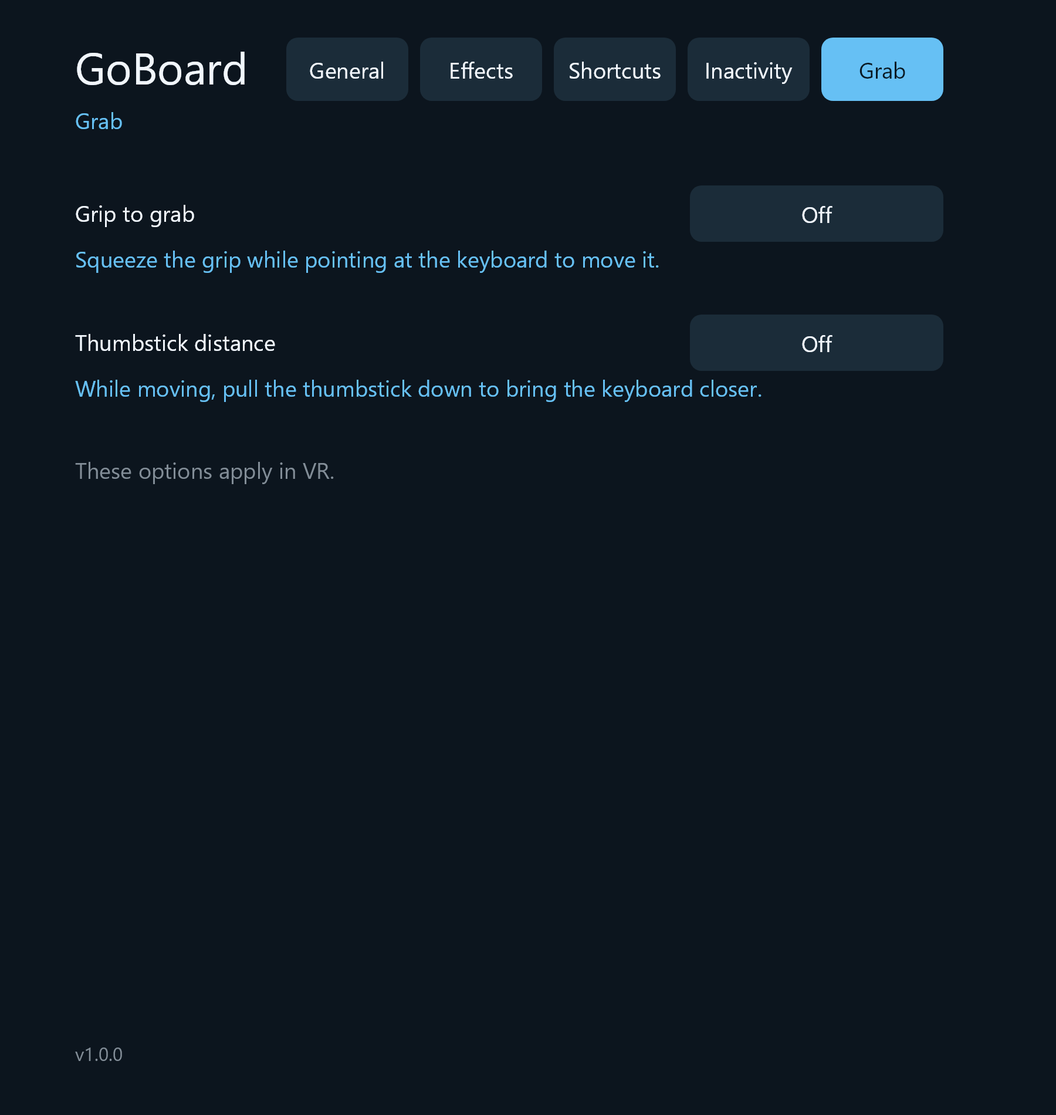
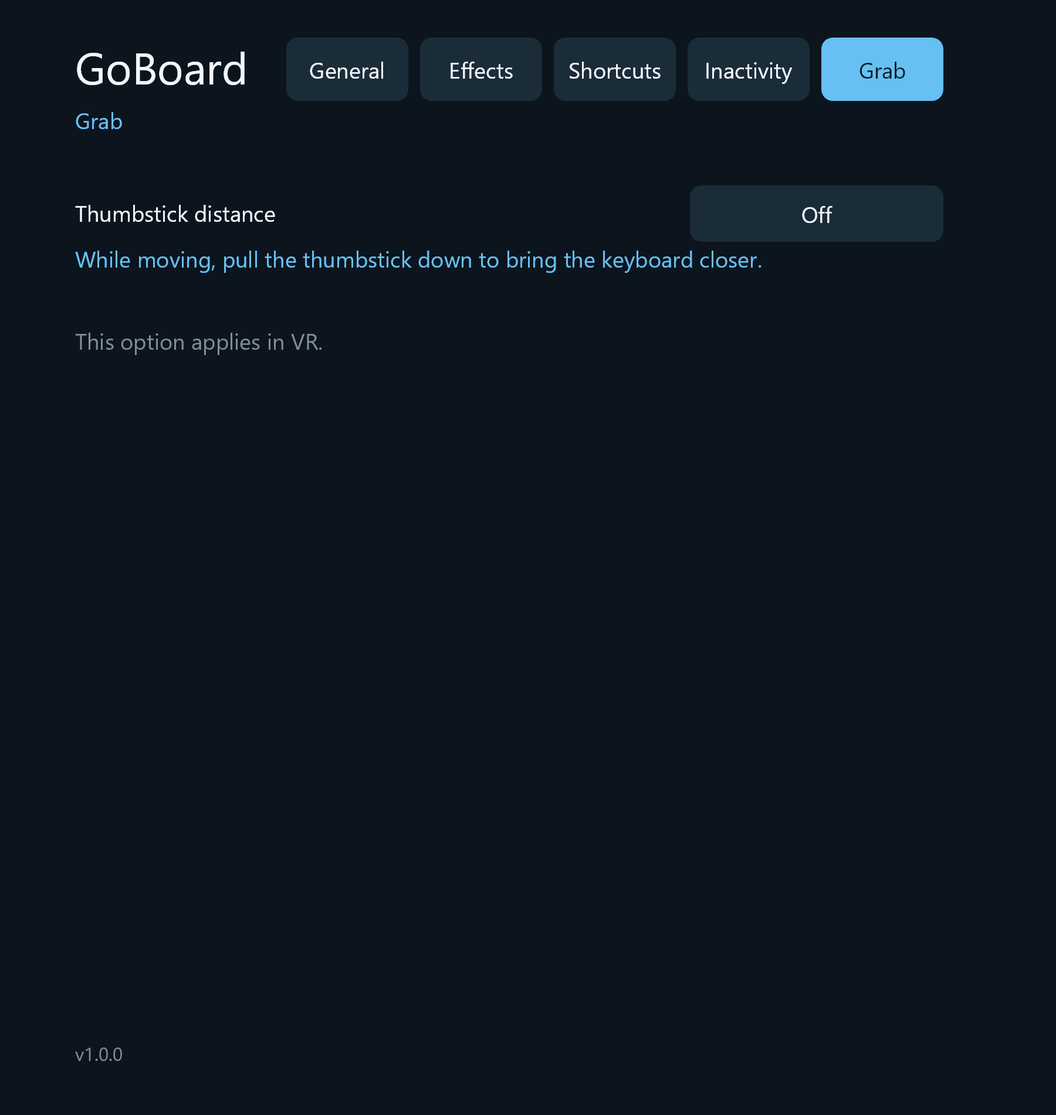
Read grab distance from scroll events and drop grip grabbing
While the dashboard is open, SteamVR withholds grip and joystick state
from both legacy controller state and IVRInput. The joystick still
reaches the pointed-at overlay as smooth scroll events, so the held
handle reads them. No grip event reaches an overlay, so grip grabbing
is removed.

diff --git a/src/GoBoard.OpenVR/GrabHandle.cs b/src/GoBoard.OpenVR/GrabHandle.cs
@@ -20,9 +20,8 @@ internal sealed class GrabHandle(CVRSystem system, CVROverlay overlay, ulong han
     private readonly ulong rightPath = InputPath("/user/hand/right");
     private GrabPose grab;
     private uint owner;
-    private bool watchTrigger, gripping, gripGrab, stickDistance;
-    private readonly GripPresses grips = new();
-    private int stickAxis = -1;
+    private bool watchTrigger, stickDistance;
+    private readonly ScrollStick stick = new();
     private double lastUpdate = double.NaN;
     private int drawnState = -1;
     private readonly Dictionary<(uint Slot, uint Device), double> lastMotionLog = new();
@@ -36,13 +35,13 @@ internal sealed class GrabHandle(CVRSystem system, CVROverlay overlay, ulong han
     public uint Controller => owner;
     public bool Hovered => input.HasFocus;
     private bool drawnDormant;
-    // Controllers pointing at the grabbed surface (besides this handle) can start a grip grab.
-    public Func<IEnumerable<uint>> GripTargets { get; set; }
 
     public void ApplySettings(BoardSettings settings)
     {
-        gripGrab = settings.GripGrabEnabled;
+        if (stickDistance == settings.StickDistanceEnabled) return;
         stickDistance = settings.StickDistanceEnabled;
+        stick.Reset();
+        Check(overlay.SetOverlayFlag(handle, VROverlayFlags.SendVRSmoothScrollEvents, stickDistance), "Grab thumbstick events");
     }
 
     public Matrix4x4? Update(bool visible, Matrix4x4 panel, bool interactive = true, bool dormant = false)
@@ -67,6 +66,13 @@ internal sealed class GrabHandle(CVRSystem system, CVROverlay overlay, ulong han
             var type = (EVREventType)e.eventType;
             if (type == EVREventType.VREvent_ImageFailed) throw new InvalidOperationException("SteamVR failed to load the grab handle.");
             if (!interactive) continue;
+            if (type == EVREventType.VREvent_ScrollSmooth)
+            {
+                // The held handle stays under the owner's pointer, so its stick arrives here.
+                if (grab != null && e.trackedDeviceIndex == owner)
+                    stick.Observe(e.data.scroll.ydelta, Stopwatch.GetTimestamp() / (double)Stopwatch.Frequency - e.eventAgeSeconds);
+                continue;
+            }
             if (type is not (EVREventType.VREvent_FocusEnter or EVREventType.VREvent_FocusLeave or
                 EVREventType.VREvent_MouseMove or EVREventType.VREvent_MouseButtonDown or EVREventType.VREvent_MouseButtonUp)) continue;
             var now = Stopwatch.GetTimestamp() / (double)Stopwatch.Frequency;
@@ -115,17 +121,11 @@ internal sealed class GrabHandle(CVRSystem system, CVROverlay overlay, ulong han
         }
 
         input.RemoveUntracked(device => TryPose(device, out _), Stopwatch.GetTimestamp() / (double)Stopwatch.Frequency);
-        // Poll every frame so a grip already held when pointing begins is not a press.
-        var gripPress = grips.Update(Grips(), interactive && gripGrab
-            ? input.FocusedDevices.Concat(GripTargets?.Invoke() ?? []).ToHashSet() : []);
-        if (gripping && !gripGrab) End("grip grab disabled");
         // Controller-specific enter/motion/leave/up events own focus. The
         // overlay-wide hover query can change when the OTHER hand types and
         // must not clear this hand's focus or cancel its captured grab.
         // Drain the whole queue first so a queued owner leave/release wins.
-        // A grip grab ignores handle trigger presses until the grip is released.
-        if (gripping) input.Cancel();
-        else if (input.Active == null) End("pointer released or focus lost");
+        if (input.Active == null) End("pointer released or focus lost");
         else if (committedPress != input.Active)
         {
             var press = input.Active;
@@ -137,27 +137,13 @@ internal sealed class GrabHandle(CVRSystem system, CVROverlay overlay, ulong han
                 committedPress = press;
                 grab = new GrabPose(result ?? displayedPanel ?? panel, hand);
                 watchTrigger = Trigger(owner, out held) && held;
-                stickAxis = JoystickAxis(owner);
                 Console.WriteLine($"Grab started: controller {owner}, cursor {press.Cursor}, verified handle focus, trigger polling {watchTrigger}.");
             }
-        }
-        if (grab == null && gripPress is { } gripOwner && TryPose(gripOwner, out var gripHand))
-        {
-            owner = gripOwner;
-            gripping = true;
-            grab = new GrabPose(result ?? displayedPanel ?? panel, gripHand);
-            stickAxis = JoystickAxis(owner);
-            Console.WriteLine($"Grab started: controller {owner}, grip pressed while pointing at the keyboard.");
         }
 
         if (grab != null)
         {
             if (!TryPose(owner, out var hand)) End("controller tracking lost");
-            else if (gripping)
-            {
-                if (!Pressed(owner, EVRButtonId.k_EButton_Grip, out var held) || !held) End("grip released or unavailable");
-                else Hold(hand);
-            }
             else
             {
                 var valid = Trigger(owner, out var held);
@@ -165,7 +151,8 @@ internal sealed class GrabHandle(CVRSystem system, CVROverlay overlay, ulong han
                 else
                 {
                     watchTrigger |= valid && held;
-                    Hold(hand);
+                    if (stickDistance) grab = grab.WithStick(stick.Read(clock), (float)elapsed);
+                    result = grab.Update(hand);
                 }
             }
         }
@@ -179,39 +166,7 @@ internal sealed class GrabHandle(CVRSystem system, CVROverlay overlay, ulong han
         }
         if (visible) displayedPanel = result ?? panel;
         return result;
-
-        void Hold(Matrix4x4 hand)
-        {
-            if (stickDistance && stickAxis >= 0 && ReadState(owner, out var state))
-                grab = grab.WithStick(AxisY(state, stickAxis), (float)elapsed);
-            result = grab.Update(hand);
-        }
     }
-
-    private IEnumerable<(uint, bool)> Grips()
-    {
-        foreach (var role in new[] { ETrackedControllerRole.LeftHand, ETrackedControllerRole.RightHand })
-        {
-            var device = system.GetTrackedDeviceIndexForControllerRole(role);
-            if (IsController(device)) yield return (device, Pressed(device, EVRButtonId.k_EButton_Grip, out var held) && held);
-        }
-    }
-
-    private int JoystickAxis(uint device)
-    {
-        for (var axis = 0; axis < 5; axis++)
-        {
-            var error = ETrackedPropertyError.TrackedProp_Success;
-            var type = system.GetInt32TrackedDeviceProperty(device, ETrackedDeviceProperty.Prop_Axis0Type_Int32 + axis, ref error);
-            if (error == ETrackedPropertyError.TrackedProp_Success && type == (int)EVRControllerAxisType.k_eControllerAxis_Joystick) return axis;
-        }
-        return -1;
-    }
-
-    private static float AxisY(VRControllerState_t state, int axis) => axis switch
-    {
-        0 => state.rAxis0.y, 1 => state.rAxis1.y, 2 => state.rAxis2.y, 3 => state.rAxis3.y, 4 => state.rAxis4.y, _ => 0
-    };
 
     private uint? EventDevice(VREvent_t e) => IsController(e.trackedDeviceIndex) ? e.trackedDeviceIndex : null;
 
@@ -257,19 +212,12 @@ internal sealed class GrabHandle(CVRSystem system, CVROverlay overlay, ulong han
             OpenVrPose.TryRigid(devices[device].mDeviceToAbsoluteTracking, out pose);
     }
 
-    private bool Trigger(uint device, out bool held) => Pressed(device, EVRButtonId.k_EButton_SteamVR_Trigger, out held);
-
-    private bool Pressed(uint device, EVRButtonId button, out bool held)
+    private bool Trigger(uint device, out bool held)
     {
-        var valid = ReadState(device, out var state);
-        held = (state.ulButtonPressed & (1UL << (int)button)) != 0;
+        var state = new VRControllerState_t();
+        var valid = system.GetControllerState(device, ref state, (uint)Marshal.SizeOf<VRControllerState_t>());
+        held = (state.ulButtonPressed & (1UL << (int)EVRButtonId.k_EButton_SteamVR_Trigger)) != 0;
         return valid;
-    }
-
-    private bool ReadState(uint device, out VRControllerState_t state)
-    {
-        state = new VRControllerState_t();
-        return system.GetControllerState(device, ref state, (uint)Marshal.SizeOf<VRControllerState_t>());
     }
 
     private void End(string reason)
@@ -279,8 +227,7 @@ internal sealed class GrabHandle(CVRSystem system, CVROverlay overlay, ulong han
         committedPress = null;
         input.Cancel();
         watchTrigger = false;
-        gripping = false;
-        stickAxis = -1;
+        stick.Reset();
     }
 
     private static void Check(EVROverlayError error, string operation)

diff --git a/tests/GoBoard.Tests/GrabOptionsTests.cs b/tests/GoBoard.Tests/GrabOptionsTests.cs
@@ -72,38 +72,37 @@ public sealed class GrabOptionsTests : IDisposable
     }
 
     [Fact]
-    public void GripStartsOnlyOnAFreshPressWhilePointingAtTheKeyboard()
+    public void ScrollEventsActAsAHeldStickUntilTheyStop()
     {
-        var grips = new GripPresses();
-        uint[] none = [], left = [3];
-        Assert.Null(grips.Update([(3, false), (4, false)], left));
-        // Holding the grip while moving onto the keyboard never starts a grab.
-        Assert.Null(grips.Update([(3, true), (4, false)], none));
-        Assert.Null(grips.Update([(3, true), (4, false)], left));
-        Assert.Null(grips.Update([(3, false), (4, false)], left));
-        Assert.Equal(3u, grips.Update([(3, true), (4, false)], left));
-        Assert.Null(grips.Update([(3, true), (4, false)], left));
-        // The other hand's press elsewhere is ignored; its own press on the keyboard starts.
-        Assert.Null(grips.Update([(3, true), (4, true)], left));
-        Assert.Null(grips.Update([(3, true), (4, false)], new uint[] { 4 }));
-        Assert.Equal(4u, grips.Update([(3, true), (4, true)], new uint[] { 3, 4 }));
+        var stick = new ScrollStick();
+        Assert.Equal(0, stick.Read(1));
+        stick.Observe(-ScrollStick.FullDeflection, 1);
+        Assert.Equal(-1, stick.Read(1.05));
+        stick.Observe(ScrollStick.FullDeflection / 2, 1.1);
+        Assert.Equal(.5f, stick.Read(1.1), 4);
+        // Larger deltas saturate; stale, invalid, and out-of-order events are ignored.
+        stick.Observe(1, 1.2);
+        Assert.Equal(1, stick.Read(1.2));
+        stick.Observe(float.NaN, 1.25);
+        stick.Observe(-1, 1.15);
+        Assert.Equal(1, stick.Read(1.25));
+        Assert.Equal(0, stick.Read(1.2 + ScrollStick.HoldSeconds + .01));
+        stick.Observe(-1, 2);
+        stick.Reset();
+        Assert.Equal(0, stick.Read(2));
     }
 
     [Fact]
-    public void GrabOptionsAreOptInTogglesThatPersist()
+    public void StickDistanceIsAnOptInToggleThatPersists()
     {
         var path = Path.Combine(directory, "settings.json");
-        Assert.False(BoardSettings.Defaults.GripGrabEnabled);
         Assert.False(BoardSettings.Defaults.StickDistanceEnabled);
         var editor = new SettingsStore(path);
-        Assert.True(editor.Update(s => SettingsControls.Apply(SettingsAction.ToggleGripGrab, s)));
         Assert.True(editor.Update(s => SettingsControls.Apply(SettingsAction.ToggleStickDistance, s)));
         var host = new SettingsStore(path);
-        Assert.True(host.Current.GripGrabEnabled);
         Assert.True(host.Current.StickDistanceEnabled);
-        Assert.False(SettingsControls.Apply(SettingsAction.ToggleGripGrab, host.Current).GripGrabEnabled);
-        var reset = SettingsControls.Apply(SettingsAction.Defaults, host.Current);
-        Assert.False(reset.GripGrabEnabled || reset.StickDistanceEnabled);
+        Assert.False(SettingsControls.Apply(SettingsAction.ToggleStickDistance, host.Current).StickDistanceEnabled);
+        Assert.False(SettingsControls.Apply(SettingsAction.Defaults, host.Current).StickDistanceEnabled);
     }
 
     [Fact]

diff --git a/src/GoBoard.Presentation.Skia/SettingsPanel.cs b/src/GoBoard.Presentation.Skia/SettingsPanel.cs
@@ -70,11 +70,9 @@ internal static class SettingsPanel
         }
         else if (grabPage)
         {
-            Text("Grip to grab", 64, SettingsControls.GripGrabBaseline, small, text);
-            Text("Squeeze the grip while pointing at the keyboard to move it.", 64, SettingsControls.GripGrabHintBaseline, small, accent);
             Text("Thumbstick distance", 64, SettingsControls.StickDistanceBaseline, small, text);
             Text("While moving, pull the thumbstick down to bring the keyboard closer.", 64, SettingsControls.StickDistanceHintBaseline, small, accent);
-            Text("These options apply in VR.", 64, SettingsControls.GrabNoteBaseline, small, colors.TextMuted);
+            Text("This option applies in VR.", 64, SettingsControls.GrabNoteBaseline, small, colors.TextMuted);
         }
         else if (choosingPreset)
         {
@@ -156,7 +154,6 @@ internal static class SettingsPanel
                 c.Action == SettingsAction.ToggleSound && settings.SoundEnabled ||
                 c.Action == SettingsAction.ToggleKeepVisibleAtDefaultPosition && settings.Inactivity.KeepVisibleAtDefaultPosition ||
                 c.Action == SettingsAction.ToggleRememberPosition && settings.RememberPosition ||
-                c.Action == SettingsAction.ToggleGripGrab && settings.GripGrabEnabled ||
                 c.Action == SettingsAction.ToggleStickDistance && settings.StickDistanceEnabled ||
                 c.Action == SettingsAction.ToggleNumpadButton && settings.NumpadButtonEnabled ||
                 c.Action == SettingsAction.SteamSoft && BoardThemes.Normalize(settings.Theme) == BoardThemes.SteamSoft ||
@@ -232,7 +229,6 @@ internal static class SettingsPanel
             var title = c.Action == SettingsAction.ToggleSound ? settings.SoundEnabled ? "On" : "Off" : c.Label;
             if (c.Action == SettingsAction.ToggleKeepVisibleAtDefaultPosition) title = settings.Inactivity.KeepVisibleAtDefaultPosition ? "On" : "Off";
             if (c.Action == SettingsAction.ToggleRememberPosition) title = settings.RememberPosition ? "On" : "Off";
-            if (c.Action == SettingsAction.ToggleGripGrab) title = settings.GripGrabEnabled ? "On" : "Off";
             if (c.Action == SettingsAction.ToggleStickDistance) title = settings.StickDistanceEnabled ? "On" : "Off";
             if (c.Action == SettingsAction.ToggleNumpadButton) title = settings.NumpadButtonEnabled ? "Numpad button: Shown" : "Numpad button: Hidden";
             if (c.Action == SettingsAction.Autostart) title = autostart.ButtonLabel;

diff --git a/src/GoBoard.Core/SettingsControls.cs b/src/GoBoard.Core/SettingsControls.cs
@@ -18,7 +18,7 @@ internal enum SettingsAction
     IdleSooner, IdleLater, RevealSooner, RevealLater, FadeFaster, FadeSlower,
     IdleOpacityLess, IdleOpacityMore, IdleSizeLess, IdleSizeMore, ResetInactivity,
     ToggleKeepVisibleAtDefaultPosition, ToggleRememberPosition,
-    GrabTab = 600, ToggleGripGrab, ToggleStickDistance,
+    GrabTab = 600, ToggleStickDistance,
     KeyChoiceFirst = 1000
 }
 internal sealed record SettingsControl(SettingsAction Action, string Label, KeyBounds Bounds,
@@ -75,12 +75,10 @@ internal static class SettingsControls
      new(SettingsAction.InactivityTab, "Inactivity", new(586, 32, 104, 54)),
      new(SettingsAction.GrabTab, "Grab", new(700, 32, 104, 54))];
 
-    public const float GripGrabBaseline = 189, GripGrabHintBaseline = 228;
-    public const float StickDistanceBaseline = 299, StickDistanceHintBaseline = 338, GrabNoteBaseline = 408;
+    public const float StickDistanceBaseline = 189, StickDistanceHintBaseline = 228, GrabNoteBaseline = 298;
     public static readonly SettingsControl[] Grab =
     [
-        new(SettingsAction.ToggleGripGrab, "", new(588, 158, 216, 48)),
-        new(SettingsAction.ToggleStickDistance, "", new(588, 268, 216, 48))
+        new(SettingsAction.ToggleStickDistance, "", new(588, 158, 216, 48))
     ];
 
     public static readonly (string Label, SettingsAction Less, SettingsAction More)[] InactivityParameters =
@@ -279,7 +277,6 @@ internal static class SettingsControls
         SettingsAction.ResetInactivity => s with { Inactivity = new() },
         SettingsAction.ToggleKeepVisibleAtDefaultPosition => s with { Inactivity = s.Inactivity with { KeepVisibleAtDefaultPosition = !s.Inactivity.KeepVisibleAtDefaultPosition } },
         SettingsAction.ToggleRememberPosition => s with { RememberPosition = !s.RememberPosition, VrPosition = null, DesktopPosition = null },
-        SettingsAction.ToggleGripGrab => s with { GripGrabEnabled = !s.GripGrabEnabled },
         SettingsAction.ToggleStickDistance => s with { StickDistanceEnabled = !s.StickDistanceEnabled },
         SettingsAction.ToggleNumpad => s with { NumpadEnabled = !s.NumpadEnabled },
         SettingsAction.ToggleNumpadButton => s with { NumpadButtonEnabled = !s.NumpadButtonEnabled },

diff --git a/src/GoBoard.Core/ScrollStick.cs b/src/GoBoard.Core/ScrollStick.cs
@@ -1,0 +1,29 @@
+namespace GoBoard.Core;
+
+// While the dashboard owns controller input, SteamVR withholds the joystick
+// from controller state and IVRInput. It still reaches the pointed-at overlay
+// as smooth scroll events, repeated while the stick is held.
+internal sealed class ScrollStick
+{
+    // Full deflection reports about this vertical delta per event.
+    public const float FullDeflection = .22f;
+    // A held stick repeats faster than this; afterwards treat it as released.
+    public const double HoldSeconds = .15;
+    private float value;
+    private double time = double.NegativeInfinity;
+
+    public void Observe(float yDelta, double time)
+    {
+        if (!float.IsFinite(yDelta) || !double.IsFinite(time) || time < this.time) return;
+        value = Math.Clamp(yDelta / FullDeflection, -1, 1);
+        this.time = time;
+    }
+
+    public float Read(double now) => now - time <= HoldSeconds ? value : 0;
+
+    public void Reset()
+    {
+        value = 0;
+        time = double.NegativeInfinity;
+    }
+}

diff --git a/src/GoBoard.OpenVR/ShortcutOverlays.cs b/src/GoBoard.OpenVR/ShortcutOverlays.cs
@@ -54,7 +54,7 @@ internal sealed class ShortcutOverlays : IDisposable
             Create("goboard.app.shortcuts.grab", "GoBoard shortcuts grab", OverlayGeometry.ShortcutGrabWidth,
                 GrabHandle.LayoutHeight, OverlayGeometry.ShortcutGrabWidthInMeters, ref grip);
             keyboard = new(system, overlay, panel, graphics, shortcutsOnly: true, sharedOutput: output);
-            grab = new(system, overlay, grip, graphics, OverlayGeometry.ShortcutGrabWidth) { GripTargets = () => keyboard.GripTargets };
+            grab = new(system, overlay, grip, graphics, OverlayGeometry.ShortcutGrabWidth);
             grab.Update(false, default);
         }
         catch { Dispose(); throw; }

diff --git a/src/GoBoard.OpenVR/GoBoardRuntime.cs b/src/GoBoard.OpenVR/GoBoardRuntime.cs
@@ -182,7 +182,6 @@ public static int Run(string[] args)
         var nativeKeyboard = new NativeKeyboardVisibility(overlay);
         using var output = new WindowsKeyboard();
         using var keyboard = new KeyboardOverlay(system, overlay, handle, graphics, sharedOutput: output);
-        grab.GripTargets = () => keyboard.GripTargets;
         var inactivity = new KeyboardInactivity();
         using var shortcuts = new ShortcutOverlays(system, overlay, graphics, handle, output);
         using var controls = new KeyboardControlOverlays(system, overlay, graphics, handle, action =>

diff --git a/src/GoBoard.Core/BoardSettings.cs b/src/GoBoard.Core/BoardSettings.cs
@@ -23,8 +23,7 @@ internal sealed record BoardSettings
     // A new request is observed once by each running host through the shared settings file.
     public Guid PositionResetId { get; init; }
     public bool RememberPosition { get; init; }
-    // VR grab options; both are opt-in.
-    public bool GripGrabEnabled { get; init; }
+    // Opt-in VR grab option.
     public bool StickDistanceEnabled { get; init; }
     public VrKeyboardPosition VrPosition { get; init; }
     public DesktopKeyboardPosition DesktopPosition { get; init; }

diff --git a/src/GoBoard.OpenVR/KeyboardOverlay.cs b/src/GoBoard.OpenVR/KeyboardOverlay.cs
@@ -32,8 +32,6 @@ internal sealed class KeyboardOverlay(CVRSystem system, CVROverlay overlay, ulon
     private bool inputSuppressed, hoverReveal;
     public bool RevealHovered => hoverReveal && State.FocusedDevices.Any();
     internal bool AcceptsKeyInput => enabled;
-    // Controllers pointing at keys that accept input; a dormant keyboard cannot be grip-grabbed.
-    public IEnumerable<uint> GripTargets => enabled ? State.FocusedDevices : [];
 
     public void SuppressInput(bool suppress, bool revealOnHover = false)
     {

diff --git a/docs/development.md b/docs/development.md
@@ -39,9 +39,7 @@ The desktop native check uses disposable windows and settings, briefly moves the
 
 ## Grab options
 
-**Settings → Grab** has two opt-in VR options, both off by default. **Grip to grab** starts a grab when a controller's grip goes from released to pressed while that controller points at keys that accept input, the shortcut palette, or a grab handle. Holding the grip while moving onto the keyboard does not start a grab. Dormant keyboards (hidden, transparent, or minimized) can still be moved only through their handle. A grip grab ends on grip release, tracking loss, hiding, or when the option is turned off. While it is active, trigger presses on the handle are ignored. Like trigger grabs, it cancels only the owner's keyboard capture.
-
-**Thumbstick distance** reads the owner's joystick axis while a trigger or grip grab is held. The axis is found from the controller's `Prop_AxisNType` properties through the legacy controller state, and trackpads are ignored. After a 20% deadzone, full deflection changes the controller-to-panel distance threefold per second along the same line, keeping orientation. Pulling down brings the keyboard closer. Distance is clamped to 0.15–3 m without snapping a capture already outside that range, and each frame step is capped at 100 ms. Each change produces a new `GrabPose`, so the keyboard, handles, and palette rebind their controller-relative transforms. `GrabOptionsTests` cover distance direction, deadzone, clamps, frame hitches, fresh-press detection, persistence, and the Settings tab. Whether SteamVR reports grip and joystick through the legacy state while the dashboard is open, how the stick interacts with dashboard scrolling, controller-specific axis reporting, and how the movement feels still need headset acceptance.
+**Settings → Grab → Thumbstick distance** is an opt-in VR option, off by default. While the dashboard is open, SteamVR withholds the joystick and grip from both the legacy controller state and IVRInput, including action sets at overlay-global priority. The joystick still reaches the pointed-at overlay as `VREvent_ScrollSmooth`, so grab handles enable `SendVRSmoothScrollEvents` while the option is on. The held handle stays under the owner's pointer, and `ScrollStick` treats the owner's latest vertical delta as the stick position: about 0.22 is full deflection, and silence for 150 ms is a release. After a 20% deadzone, full deflection changes the controller-to-panel distance threefold per second along the same line, keeping orientation. Pulling down brings the keyboard closer. Distance is clamped to 0.15–3 m without snapping a capture already outside that range, and each frame step is capped at 100 ms. Each change produces a new `GrabPose`, so the keyboard, handles, and palette rebind their controller-relative transforms. `GrabOptionsTests` cover distance direction, deadzone, clamps, frame hitches, scroll hold and release, persistence, and the Settings tab. Grip-to-grab is not possible for the same reason: no grip event reaches an overlay while the dashboard is open.
 
 ## Native SteamVR keyboard visibility
 

diff --git a/docs/technical-design.md b/docs/technical-design.md
@@ -30,7 +30,7 @@ Desktop mode uses a topmost, non-activating Windows Forms surface. Both hosts us
 
 `DashboardFollower` resolves SteamVR's menu bar through `FindOverlay("valve.steam.gamepadui.bar")` and reads its pose in standing space. This internal overlay name is a compatibility dependency. Missing or invalid anchors hide the panel and produce a diagnostic.
 
-The keyboard and its handles follow a stored dashboard-relative pose. Dashboard scale does not resize the keyboard, and GoBoard never modifies the dashboard transform. A grab captures the panel-to-controller transform and uses `SetOverlayTransformTrackedDeviceRelative` for movement. Display-predicted controller poses supply the retained offset on release. Runtime transform readbacks are not treated as independent dragging. Optional grab settings let a fresh grip press start a grab while that controller points at the keyboard, its shortcut palette, or a handle; the grab ends on grip release. Another option moves a held panel along the controller-to-panel line with the owner's thumbstick (down brings it closer); each changed distance is a new capture that hosts rebind.
+The keyboard and its handles follow a stored dashboard-relative pose. Dashboard scale does not resize the keyboard, and GoBoard never modifies the dashboard transform. A grab captures the panel-to-controller transform and uses `SetOverlayTransformTrackedDeviceRelative` for movement. Display-predicted controller poses supply the retained offset on release. Runtime transform readbacks are not treated as independent dragging. An optional setting moves a held panel along the controller-to-panel line with the owner's thumbstick, read from smooth scroll events on the held handle (down brings it closer); each changed distance is a new capture that hosts rebind.
 
 Tracked-device identity owns capture; cursor slots are transient. A grab cancels only its owner's keyboard capture, allowing the other hand to type. Releases, focus changes, tracking loss, and hiding invalidate stale input. Queued events are checked against controller identity and release/focus timestamps before a new attachment or keystroke is accepted. Fresh motion may restore hover but cannot initiate a press or grab.
 

diff --git a/README.md b/README.md
@@ -33,7 +33,7 @@ Launch **GoBoard VR** or **GoBoard Settings** from the Start menu.
 
 ![Keyboard inactivity modes and timings](docs/images/goboard-inactivity-settings.png)
 
-![Grip grabbing and thumbstick distance options](docs/images/goboard-grab-settings.png)
+![Thumbstick grab distance option](docs/images/goboard-grab-settings.png)
 
 ![Shortcut presets and custom shortcut editor](docs/images/goboard-shortcut-settings.png)
 
